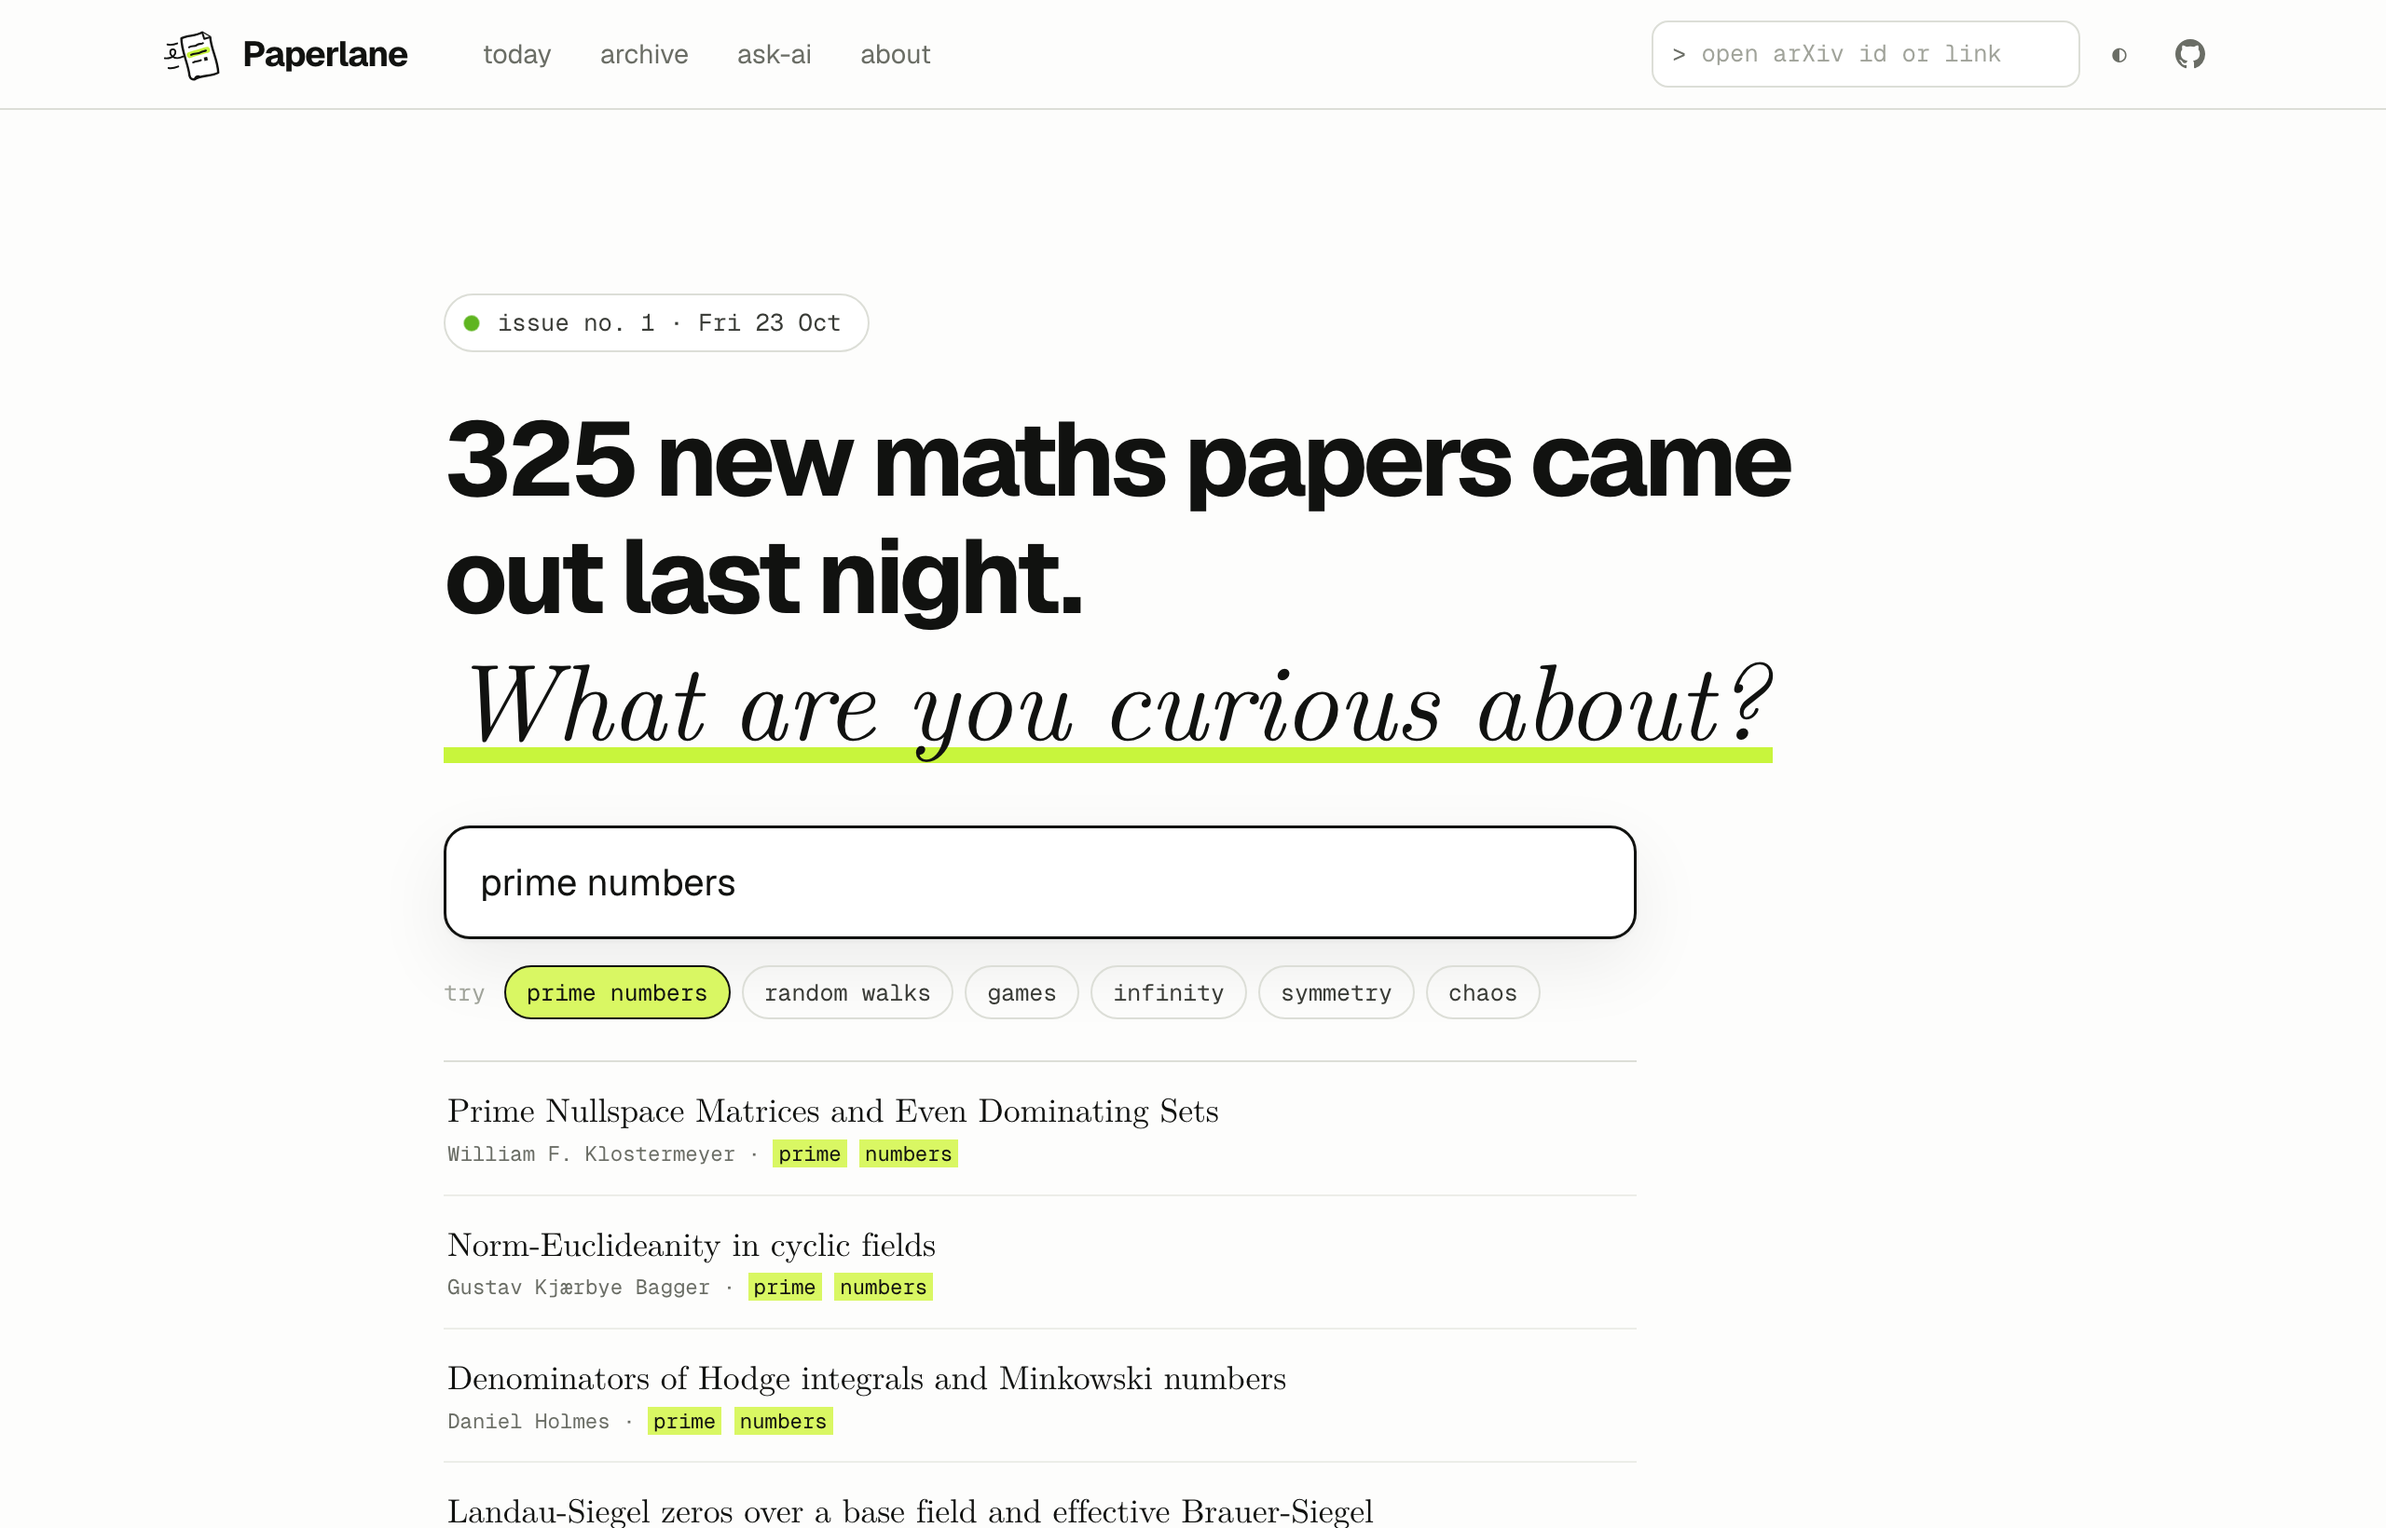
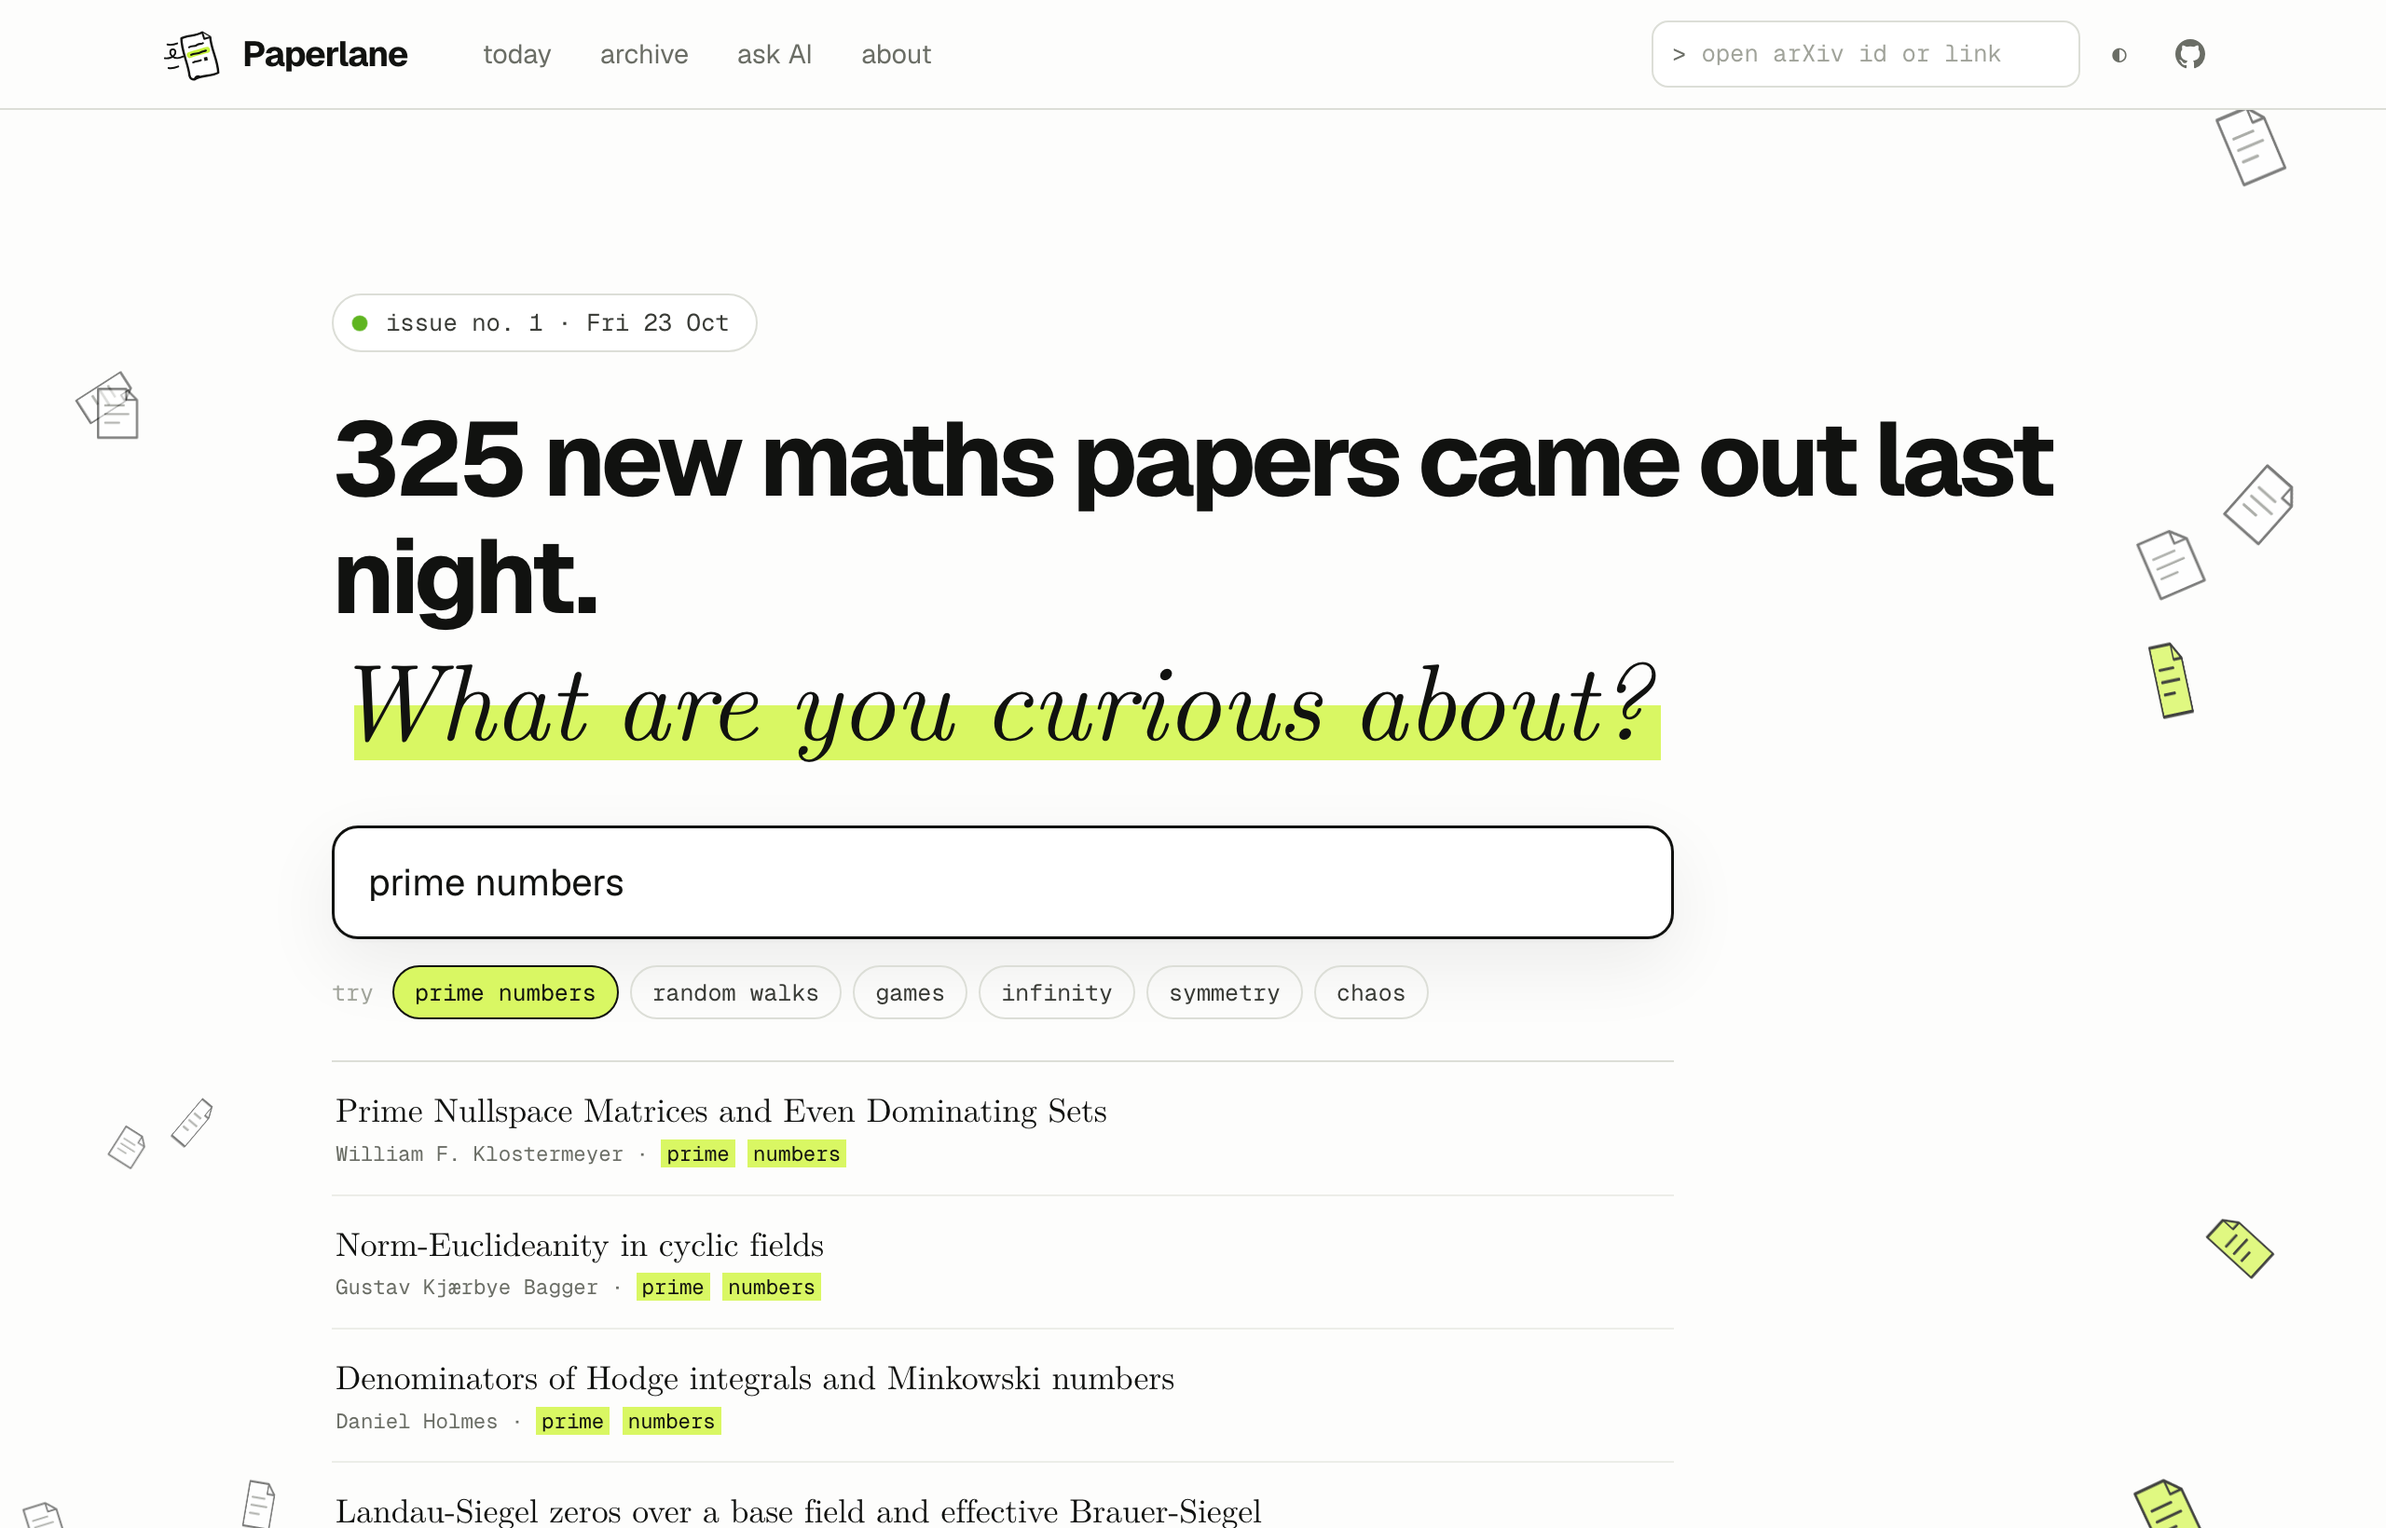
docs: rewrite the site and README copy in plain English
Headlines and paragraphs that used fragments, lists of three or a question answered by the next line were rewritten as plain sentences. The about page no longer says that Paperlane never ranks papers, because search does rank them. The screenshots show the wider column.

diff --git a/paperlane/render.py b/paperlane/render.py
@@ -592,8 +592,8 @@ def archive_html(days, numbers, built, base):
             f'<span class="mono c">{st["papers"]} papers · {st["lean"]} ∎</span></a></li>'
         )
     body = f"""<div class="wrap narrow">
-  <header class="issue-head"><p class="kicker mono">archive</p><h1>Every issue, <em>so far</em></h1>
-  <p class="lede small">Each day stays here. To open one paper from any day, paste its arXiv link or id into the box at the top.</p></header>
+  <header class="issue-head"><p class="kicker mono">archive</p><h1>Every issue is <em>kept here</em></h1>
+  <p class="lede small">Every past issue stays online. To open one paper from any day, paste its arXiv link or id into the box at the top.</p></header>
   <ol class="toc archive-toc">{''.join(rows)}</ol>
 </div>"""
     return page("Archive · Paperlane", body, "", built, "Every issue of Paperlane.", base, "archive", "archive")
@@ -623,14 +623,14 @@ def about_html(days, base, built):
     ]
     rows = "".join(f'<tr><td class="mono"><a href="{f}">{esc(f)}</a></td><td>{esc(t)}</td></tr>' for f, t in files)
     body = f"""<div class="wrap narrow prose">
-  <header class="issue-head"><p class="kicker mono">about</p><h1>A quieter way to <em>keep up with mathematics</em></h1></header>
+  <header class="issue-head"><p class="kicker mono">about</p><h1>Keep up with mathematics <em>in a few minutes</em></h1></header>
   <p class="lede small">Paperlane collects the new mathematics papers every weekday and sets them in one list that you can make your own in seconds. It is free and needs no account.</p>
 
   <h2>How search works</h2>
-  <p>Type a topic, a phrase or a name and Paperlane ranks the papers with BM25, the standard formula behind most search engines, over titles, abstracts and authors. Titles count twice, exact phrases get a bonus, and British and American spellings match each other. Only papers that match are shown, best first, with the words that matched under each one. This runs in your browser and nothing you type is sent anywhere.</p>
+  <p>Type a topic or an author's name, and Paperlane ranks the papers with BM25, the standard formula behind most search engines. It reads titles, abstracts and author names, and it counts words in a title twice. A phrase that appears word for word gets a bonus, and British and American spellings match each other. Only papers that match are shown, best first, with the words that matched under each one. This runs in your browser and nothing you type is sent anywhere.</p>
   <p>With no search, papers sit under their main field, largest field first, and the fields you picked move to the top. You can also list them newest first or shortest first. Paperlane never ranks a paper by who wrote it.</p>
 
-  <h2>Why not just ask your AI to read arXiv?</h2>
+  <h2>What Paperlane does for <em>your AI</em></h2>
   <p>One night of mathematics is about 57,000 words of abstracts, the length of a short novel. Paperlane reads it once and hands your assistant an index of about 7,500 words, so the answer is fast and cheap. Some answers also need real work, such as checking every linked repository for a Lean project, and Paperlane does that once for everyone. Every issue stays in the archive, so you can look back and see when a paper was revised.</p>
 
   <h2>What the tags mean</h2>
@@ -641,7 +641,7 @@ def about_html(days, base, built):
     <div><dt class="mono t-rev">v2</dt><dd>A revised version of an older paper.</dd></div>
     <div><dt class="mono">via cs.CC</dt><dd>A paper from another subject that its authors also listed under mathematics.</dd></div>
   </dl>
-  <p>Every tag comes from a simple check that anyone can repeat. Paperlane never ranks papers or scores authors.</p>
+  <p>Every tag comes from a simple check that anyone can repeat, and no language model decides any tag. Paperlane never scores authors.</p>
 
   <h2>When it updates</h2>
   <p>New papers are announced from Sunday to Thursday evening, US Eastern time. Paperlane picks them up at 06:00 UTC the next morning, so a new issue appears from Monday to Friday.</p>

diff --git a/README.md b/README.md
@@ -1,5 +1,5 @@
 <p align="center">
-  <img src="docs/banner.svg" alt="Paperlane. The day's mathematics, read in a minute." width="100%">
+  <img src="docs/banner.svg" alt="Paperlane: read the day's mathematics in a minute." width="100%">
 </p>
 
 <p align="center">
@@ -21,9 +21,7 @@
 
 Every weekday a few hundred new mathematics papers come out. One night of them is about 57,000 words of abstracts, the length of a short novel, and almost nobody sees it happen. Paperlane turns each night into one short issue that you can skim in a minute and your AI assistant can read in seconds.
 
-Type anything you are curious about and the matching papers from last night appear as you type. If you do research, type what you work on and the closest papers come first. If you would rather not read papers at all, paste one prompt into the AI you already pay for, and it tells you what mathematicians found last night in plain words.
-
-Paperlane is free, needs no account and sets no cookies.
+Type anything you are curious about and the matching papers from last night appear as you type. If you do research, type what you work on and the closest papers come first. If you would rather not read papers at all, paste one prompt into the AI you already pay for, and it tells you what mathematicians found last night in plain words. Paperlane is free and needs no account.
 
 <p align="center">
   <img src="docs/home.png" alt="The Paperlane home page, where typing prime numbers shows the matching papers from last night" width="92%">
@@ -41,15 +39,13 @@ Paperlane is free, needs no account and sets no cookies.
 
 ## What you can do
 
-- **Search the night.** One box ranks every paper against what you type, best match first, and shows the words that matched. Titles count twice, exact phrases get a bonus, and British and American spellings match each other. It runs in your browser with BM25, the formula behind most search engines, and nothing you type is sent anywhere.
+- **Search the night.** One box ranks every paper against what you type, best match first, and shows the words that matched. It uses BM25, the formula behind most search engines, and counts words in a title twice. British and American spellings match each other. The search runs in your browser, so nothing you type is sent anywhere, and Paperlane never ranks a paper by who wrote it.
 - **Skim by field.** With no search, papers sit under their main field, three at a time until you ask for the rest. Fields you pick move to the top next time.
 - **Keep code and proofs.** The **Code** and **Lean** buttons keep only papers that link to code or to a Lean formalisation.
 - **Open any paper.** Paste an arXiv link or id into the box in the header. Papers from any issue open on their own page, and older papers are looked up for you.
 - **Take the Markdown.** Every paper has a Markdown version one click away, ready for a chat window or your notes.
 
-Paperlane never ranks a paper by who wrote it.
-
-## Not a mathematician?
+## If you are not a mathematician
 
 Paste this into ChatGPT, Claude, Gemini or any assistant that can open web pages:
 
@@ -59,7 +55,7 @@ Paste this into ChatGPT, Claude, Gemini or any assistant that can open web pages
 
 Many assistants can now run scheduled routines. Open [ask AI in routine mode](https://pragyaangaur.github.io/Paperlane/ask.html?mode=routine), pick a time and your timezone, type what you work on, and Paperlane writes a prompt that sets up a routine for every weekday. Each run reads the new issue and sends you the three papers worth your time. On days with no new issue it says so in one line. The page shows when the new issue arrives in your own timezone, so you can pick a time after it.
 
-## Why not just ask your AI to read arXiv?
+## What Paperlane does for your AI
 
 - **A night of maths is a short novel.** Paperlane reads it once and hands your assistant an index of about 7,500 words, so the answer is fast and cheap.
 - **Some answers need real work.** Checking every linked repository for a Lean project takes real requests, and compiling the proofs (coming next) takes real computing time. Paperlane does this once, for everyone.
@@ -94,7 +90,7 @@ curl -s https://pragyaangaur.github.io/Paperlane/latest-titles.md | head
   <img src="docs/how-it-works.svg" alt="Every night arXiv announces new papers, a daily job at 06:00 UTC collects them, checks code and Lean projects, and publishes the issue for you and your AI agent" width="100%">
 </p>
 
-A scheduled job collects the night's announcement, looks up each paper's details, and checks every linked GitHub repository for a Lean project. It then publishes the issue in every format at once. Every tag comes from a simple check that anyone can repeat, and no language model decides anything about a paper.
+A scheduled job collects the night's announcement and looks up the details of each paper. It checks every linked GitHub repository for a Lean project and then publishes the issue in every format at once. Every tag comes from a simple check that anyone can repeat, and no language model decides anything about a paper.
 
 ## What the tags mean
 
